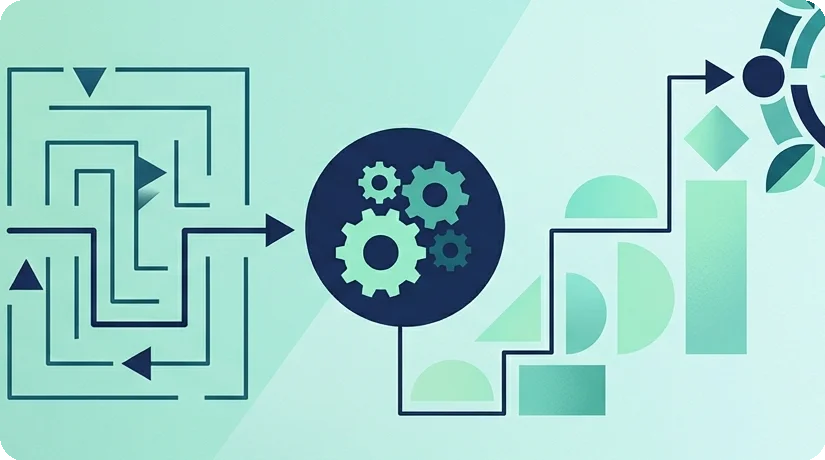
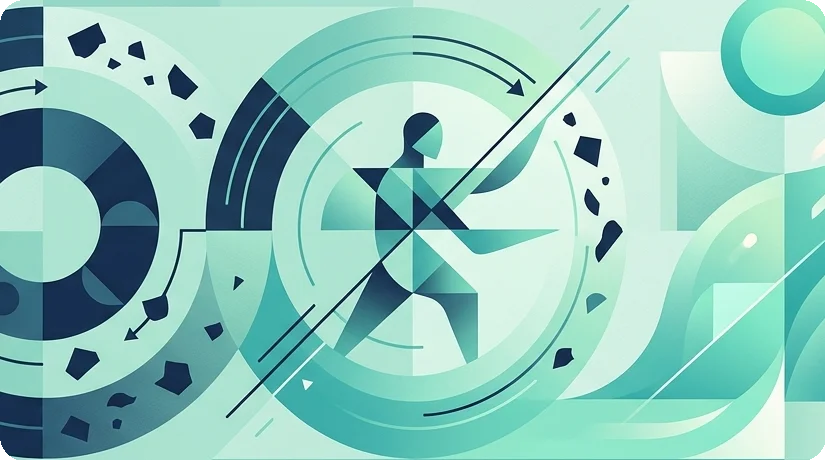
blog: add best-way-to-break-bad-eating-habits + micros: conditions/emotional-eating-and-weight-gain, diets/mindful-eating-practices, meal-plans/meal-planning-strategies

diff --git a/blog/best-way-to-break-bad-eating-habits.html b/blog/best-way-to-break-bad-eating-habits.html
@@ -8,9 +8,9 @@
   <meta charset="UTF-8">
   <meta name="viewport" content="width=device-width, initial-scale=1.0">
 
-  <title>Best Way to Break Bad Eating Habits &amp; Form New Ones — AI Weight Coach Blog</title>
-  <meta name="description" content="Discover the best way to break bad eating habits by identifying triggers, setting achievable goals, practicing mindful eating, and building new, healthier routines for lasting change.">
-  <meta name="keywords" content="break bad eating habits, healthy eating habits, stop emotional eating, food triggers, mindful eating, behavior change, nutrition strategies, weight loss habits">
+  <title>Best Way to Break Bad Eating Habits | AI Weight Coach — AI Weight Coach Blog</title>
+  <meta name="description" content="Learn the best strategies to break bad eating habits, from identifying triggers to building new healthy patterns. Get practical, evidence-based tips for lasting change.">
+  <meta name="keywords" content="bad eating habits, break bad habits, healthy eating habits, emotional eating, mindful eating, habit change, weight loss habits, food triggers">
   <meta name="author" content="AI Weight Coach">
   <meta name="robots" content="index, follow">
   <meta name="language" content="English">
@@ -19,21 +19,21 @@
   <!-- Open Graph -->
   <meta property="og:type" content="article">
   <meta property="og:url" content="https://aiweightcoach.app/blog/best-way-to-break-bad-eating-habits.html">
-  <meta property="og:title" content="Best Way to Break Bad Eating Habits &amp; Form New Ones — AI Weight Coach Blog">
-  <meta property="og:description" content="Discover the best way to break bad eating habits by identifying triggers, setting achievable goals, practicing mindful eating, and building new, healthier routines for lasting change.">
+  <meta property="og:title" content="Best Way to Break Bad Eating Habits | AI Weight Coach — AI Weight Coach Blog">
+  <meta property="og:description" content="Learn the best strategies to break bad eating habits, from identifying triggers to building new healthy patterns. Get practical, evidence-based tips for lasting change.">
   <meta property="og:image" content="https://aiweightcoach.app/og-image.png">
   <meta property="og:image:width" content="1200">
   <meta property="og:image:height" content="630">
   <meta property="og:site_name" content="AI Weight Coach">
   <meta property="og:locale" content="en_US">
-  <meta property="article:published_time" content="2026-10-29T18:00:15.262886+00:00">
-  <meta property="article:modified_time" content="2026-10-29T18:00:15.262886+00:00">
+  <meta property="article:published_time" content="2026-11-01T12:00:25.850245+00:00">
+  <meta property="article:modified_time" content="2026-11-01T12:00:25.850245+00:00">
   <meta property="article:author" content="AI Weight Coach">
 
   <!-- Twitter -->
   <meta name="twitter:card" content="summary_large_image">
-  <meta name="twitter:title" content="Best Way to Break Bad Eating Habits &amp; Form New Ones — AI Weight Coach Blog">
-  <meta name="twitter:description" content="Discover the best way to break bad eating habits by identifying triggers, setting achievable goals, practicing mindful eating, and building new, healthier routines for lasting change.">
+  <meta name="twitter:title" content="Best Way to Break Bad Eating Habits | AI Weight Coach — AI Weight Coach Blog">
+  <meta name="twitter:description" content="Learn the best strategies to break bad eating habits, from identifying triggers to building new healthy patterns. Get practical, evidence-based tips for lasting change.">
   <meta name="twitter:image" content="https://aiweightcoach.app/og-image.png">
   <meta name="twitter:site" content="@aiweightcoach">
   <meta name="twitter:creator" content="@aiweightcoach">
@@ -48,7 +48,7 @@
   <link rel="dns-prefetch" href="https://www.googletagmanager.com">
   <link href="https://fonts.googleapis.com/css2?family=Inter:wght@300;400;500;600;700;800;900&display=swap" rel="stylesheet">
   <link rel="manifest" href="https://aiweightcoach.app/manifest.json">
-  <script type="application/ld+json">{"@context": "https://schema.org", "@type": "BlogPosting", "headline": "Best Way to Break Bad Eating Habits", "description": "Discover the best way to break bad eating habits by identifying triggers, setting achievable goals, practicing mindful eating, and building new, healthier routines for lasting change.", "datePublished": "2026-10-29T18:00:15.262886+00:00", "dateModified": "2026-10-29T18:00:15.262886+00:00", "image": "https://aiweightcoach.app/blog/images/best-way-to-break-bad-eating-habits.webp", "author": {"@type": "Organization", "name": "AI Weight Coach"}, "publisher": {"@type": "Organization", "name": "AI Weight Coach", "logo": {"@type": "ImageObject", "url": "https://aiweightcoach.app/icon.png"}}, "mainEntityOfPage": {"@type": "WebPage", "@id": "https://aiweightcoach.app/blog/best-way-to-break-bad-eating-habits.html"}, "keywords": "break bad eating habits, healthy eating habits, stop emotional eating, food triggers, mindful eating, behavior change, nutrition strategies, weight loss habits"}</script>
+  <script type="application/ld+json">{"@context": "https://schema.org", "@type": "BlogPosting", "headline": "Best Way to Break Bad Eating Habits", "description": "Learn the best strategies to break bad eating habits, from identifying triggers to building new healthy patterns. Get practical, evidence-based tips for lasting change.", "datePublished": "2026-11-01T12:00:25.850245+00:00", "dateModified": "2026-11-01T12:00:25.850245+00:00", "image": "https://aiweightcoach.app/blog/images/best-way-to-break-bad-eating-habits.webp", "author": {"@type": "Organization", "name": "AI Weight Coach"}, "publisher": {"@type": "Organization", "name": "AI Weight Coach", "logo": {"@type": "ImageObject", "url": "https://aiweightcoach.app/icon.png"}}, "mainEntityOfPage": {"@type": "WebPage", "@id": "https://aiweightcoach.app/blog/best-way-to-break-bad-eating-habits.html"}, "keywords": "bad eating habits, break bad habits, healthy eating habits, emotional eating, mindful eating, habit change, weight loss habits, food triggers"}</script>
   <script type="application/ld+json">{"@context": "https://schema.org", "@type": "BreadcrumbList", "itemListElement": [{"@type": "ListItem", "position": 1, "name": "Home", "item": "https://aiweightcoach.app/"}, {"@type": "ListItem", "position": 2, "name": "Blog", "item": "https://aiweightcoach.app/blog/"}, {"@type": "ListItem", "position": 3, "name": "Best Way to Break Bad Eating Habits"}]}</script>
 
   <style>
@@ -290,90 +290,88 @@
     <span class="post-category">Behavior Psychology</span>
     <h1>Best Way to Break Bad Eating Habits</h1>
     <div class="post-meta">
-      <span>Oct 29, 2026</span>
-      <span>7 min read</span>
+      <span>Nov 01, 2026</span>
+      <span>5 min read</span>
     </div>
     <img class="post-hero" src="images/best-way-to-break-bad-eating-habits.webp" alt="Best Way to Break Bad Eating Habits">
     <div class="post-content">
-      <p>Breaking free from entrenched bad eating habits can feel like an uphill battle, but it's entirely achievable with the right strategies and a consistent approach. The best way to break bad eating habits involves a multi-faceted approach focusing on understanding your triggers, making incremental changes, building new routines, and fostering a supportive environment for long-term success.</p>
+      <p>Breaking bad eating habits is a journey that starts with self-awareness and systematic, sustainable changes. It involves understanding your triggers, gradually replacing unhelpful patterns with healthier alternatives, and building a supportive environment to foster long-term success rather than relying on restrictive diets.</p>
+
+    <h2>What Exactly Qualifies as a "Bad Eating Habit"?</h2>
+    <p>Often, when we talk about "bad eating habits," we're referring to patterns of consumption that don't serve our health or weight loss goals. These aren't just about "unhealthy foods" but also the behaviors surrounding eating. Common examples include:</p>
+    <ul>
+        <li><strong>Emotional Eating:</strong> Consuming food in response to feelings like stress, boredom, sadness, or anxiety, rather than physical hunger.</li>
+        <li><strong>Mindless Snacking:</strong> Eating without paying attention, often while watching TV, working, or scrolling, leading to overconsumption.</li>
+        <li><strong>Skipping Meals:</strong> This can lead to extreme hunger later, resulting in overeating or poor food choices.</li>
+        <li><strong>Relying on Convenience Foods:</strong> <a href="../meal-plans/meal-planning-strategies.html">Overcoming the habit of relying on convenience foods</a> often begins with implementing effective meal planning strategies to ensure healthier options are readily available. This means avoiding frequent consumption of highly processed, calorie-dense, nutrient-poor options due to lack of time or planning.</li>
+        <li><strong>Eating Too Quickly:</strong> Not allowing your body sufficient time to register fullness, often leading to overeating.</li>
+        <li><strong>Lack of Portion Control:</strong> Consistently eating larger-than-needed servings, even of healthy foods.</li>
+        <li><strong>Late-Night Eating:</strong> Consuming a significant portion of daily calories close to bedtime, which can impact sleep and digestion.</li>
+    </ul>
+    <p>Identifying your specific "bad habits" is the critical first step toward change.</p>
 
     <h2>Why Are Bad Eating Habits So Hard to Break?</h2>
-    <p>Eating habits, both good and bad, are often deeply ingrained behaviors tied to emotions, routines, and environmental cues. They aren't just about food; they're about comfort, stress relief, boredom, or social connection. Over time, these actions create neural pathways that make them automatic, making it challenging to consciously override them. Understanding this psychological aspect is the first step toward effective change. Beyond simple cravings, debunking common misconceptions like '<a href="../myths/the-myth-that-stress-doesnt-affect-weight-loss.html">The Myth That Stress Doesn't Affect Weight Loss</a>' can highlight how deeply emotions intertwine with our eating patterns.</p>
-
+    <p>If breaking bad habits were easy, everyone would do it. The reality is, these habits are often deeply ingrained, serving various psychological and physiological functions:</p>
     <ul>
-        <li><strong>Emotional Triggers:</strong> Many people eat in response to stress, sadness, boredom, or even happiness. Understanding the root causes of these behaviors, often linked to stress or boredom, is a critical step in breaking bad eating habits, especially concerning issues like <a href="../conditions/emotional-eating-and-weight-gain.html">emotional eating and weight gain</a>.</li>
-        <li><strong>Environmental Cues:</strong> Specific places, times, or people can trigger cravings or mindless eating.</li>
-        <li><strong>Lack of Awareness:</strong> Often, we're not even conscious of <em>why</em> we reach for certain foods.</li>
-        <li><strong>Instant Gratification:</strong> Unhealthy foods often provide a quick dopamine hit, reinforcing the habit.</li>
+        <li><strong>Biological Wiring:</strong> Our brains are wired to seek pleasure and conserve energy. High-fat, high-sugar foods trigger dopamine release, creating a powerful reward system.</li>
+        <li><strong>Emotional Comfort:</strong> Food can be a coping mechanism for stress, loneliness, or boredom. It provides a temporary sense of comfort or distraction.</li>
+        <li><strong>Environmental Cues:</strong> Our surroundings heavily influence our eating. Seeing tempting foods, advertisements, or being in specific social settings can trigger habitual responses.</li>
+        <li><strong>Routine and Convenience:</strong> Habits are often efficient. Reaching for a sugary drink or a bag of chips might be a well-established, low-effort routine when you're tired or busy.</li>
+        <li><strong>Lack of Awareness:</strong> Many eating habits are automatic, operating below our conscious radar. We might not even realize we're doing them until after the fact.</li>
+        <li><strong>Societal Norms:</strong> Social gatherings, cultural traditions, and peer pressure can all make it difficult to deviate from established eating patterns.</li>
+    </ul>
+    <p>Understanding these underlying reasons provides empathy for ourselves and a roadmap for tackling the roots of the habits, not just the symptoms.</p>
+
+    <h2>What Are Practical Strategies to Overcome Poor Eating Patterns?</h2>
+    <p>Breaking ingrained habits requires a multi-pronged, patient approach. Here are evidence-based strategies:</p>
+
+    <h3>1. Cultivate Self-Awareness and Identify Triggers</h3>
+    <ul>
+        <li><strong>Food Journaling:</strong> Track not just what you eat, but also when, where, with whom, how you feel, and your hunger levels. This helps reveal patterns and triggers. Tools like AI Weight Coach can simplify this process, offering insights into your eating habits.</li>
+        <li><strong>Mindful Eating:</strong> To combat mindless snacking and eating too quickly, <a href="../diets/mindful-eating-practices.html">adopting mindful eating practices</a> can help you reconnect with your body's hunger and fullness cues. Pay attention to the act of eating. Notice the flavors, textures, and smells. Eat slowly, chew thoroughly, and put your fork down between bites.</li>
     </ul>
 
-    <h2>How Can I Identify My Eating Triggers?</h2>
-    <p>Self-awareness is paramount. Before you can change a habit, you need to understand what prompts it. Keeping a food journal, beyond just tracking what you eat, can be incredibly insightful.</p>
-
-    <h3>What to Record in Your Food Journal:</h3>
-    <ol>
-        <li><strong>What you ate:</strong> Be specific.</li>
-        <li><strong>When you ate:</strong> Note the time.</li>
-        <li><strong>Where you ate:</strong> At home, work, in the car?</li>
-        <li><strong>Who you were with:</strong> Alone, with family, friends?</li>
-        <li><strong>How you felt:</strong> Stressed, happy, sad, bored, tired, anxious?</li>
-        <li><strong>Hunger level:</strong> On a scale of 1-10 before and after eating.</li>
-    </ol>
-    <p>After a week or two, review your entries. Do you notice patterns? For example, do you always reach for snacks when you get home from work, regardless of hunger? Or do you overeat when feeling stressed? Identifying these patterns is crucial for developing targeted strategies.</p>
-
-    <h2>What Are Practical Strategies for Breaking Bad Habits?</h2>
-    <p>Once you understand your triggers, you can begin to implement practical strategies. Remember, small, consistent changes are more sustainable than drastic overhauls.</p>
-
-    <h3>Start with Small, Achievable Goals</h3>
+    <h3>2. Set Realistic, Incremental Goals</h3>
     <ul>
-        <li><strong>One-step-at-a-time:</strong> Instead of cutting out all sugar, try reducing sugary drinks by half.</li>
-        <li><strong>Focus on addition, not just subtraction:</strong> Instead of dwelling on what you <em>can't</em> eat, focus on adding more fruits, vegetables, and lean proteins to your diet.</li>
-        <li><strong>Swap, don't just stop:</strong> Replace unhealthy snacks with healthier alternatives like fruit, nuts, or Greek yogurt.</li>
+        <li><strong>Start Small:</strong> Don't try to overhaul everything at once. Pick one habit to focus on first (e.g., "I will swap my afternoon soda for water," or "I will eat one serving of vegetables with dinner").</li>
+        <li><strong>SMART Goals:</strong> Make your goals Specific, Measurable, Achievable, Relevant, and Time-bound. Instead of "eat healthier," aim for "I will pack a healthy lunch three times this week."</li>
     </ul>
 
-    <h3>Reshape Your Environment</h3>
-    <p>Your surroundings heavily influence your choices. Make healthy eating the path of least resistance.</p>
+    <h3>3. Strategically Replace, Don't Just Restrict</h3>
     <ul>
-        <li><strong>Declutter your pantry:</strong> Remove tempting, ultra-processed foods that trigger unhealthy eating.</li>
-        <li><strong>Stock up on healthy options:</strong> Keep fruits, chopped vegetables, and healthy snacks readily available.</li>
-        <li><strong>Portion control:</strong> Use smaller plates, bowls, and serving utensils. Pre-portion snacks to avoid overeating directly from the package.</li>
-        <li><strong>Visibility matters:</strong> Keep healthy foods visible and unhealthy foods out of sight (or out of the house entirely).</li>
+        <li><strong>Find Healthy Swaps:</strong> Instead of eliminating an entire food group or craving, find a healthier alternative. Craving chips? Try air-popped popcorn or vegetable sticks with hummus. Sweet tooth? Reach for fruit or a small piece of dark chocolate.</li>
+        <li><strong>Add Good Habits:</strong> Focus on incorporating positive habits rather than just removing negative ones. Add more protein, fiber, or vegetables to your meals.</li>
     </ul>
 
-    <h3>Practice Mindful Eating</h3>
-    <p>The practice of <a href="../diets/mindful-eating-practices.html">mindful eating practices</a>, which encourage you to pay attention to your body's hunger cues and savor your food, can greatly enhance self-awareness around your eating. Mindful eating involves paying full attention to your food and the eating experience. It helps you recognize true hunger and fullness cues.</p>
+    <h3>4. Manage Your Environment</h3>
     <ul>
-        <li><strong>Eat slowly:</strong> Put your fork down between bites.</li>
-        <li><strong>Savor each bite:</strong> Notice the textures, flavors, and smells.</li>
-        <li><strong>Eliminate distractions:</strong> Turn off screens, put away your phone.</li>
-        <li><strong>Check in with hunger/fullness:</strong> Ask yourself if you're truly hungry before eating, and stop when you're comfortably full, not stuffed.</li>
+        <li><strong>Remove Temptations:</strong> Out of sight, out of mind. Clear your pantry and fridge of highly processed, trigger foods.</li>
+        <li><strong>Stock Healthy Options:</strong> Fill your kitchen with fruits, vegetables, lean proteins, and whole grains.</li>
+        <li><strong>Pre-Portion Snacks:</strong> If you struggle with portion control, divide snacks into individual servings.</li>
+        <li><strong>Plan Ahead:</strong> Meal prepping or having a general meal plan for the week reduces reliance on last-minute, less healthy choices. This is where the meal planning features of an app like AI Weight Coach can be invaluable.</li>
     </ul>
 
-    <h2>How Can I Develop New, Healthier Routines?</h2>
-    <p>Breaking old habits is often about replacing them with new, healthier ones. Consistency is key to forming these new routines.</p>
-
+    <h3>5. Address Underlying Emotional Triggers</h3>
     <ul>
-        <li><strong>Structured Meal Times:</strong> Try to eat at regular intervals to stabilize blood sugar and prevent extreme hunger, which often leads to poor choices.</li>
-        <li><strong>Plan Ahead:</strong> Implementing <a href="../meal-plans/meal-planning-strategies.html">effective meal planning strategies</a> can help you establish healthier routines and reduce the likelihood of impulsive, unhealthy food choices. Meal planning and prepping ensure you have healthy options ready, reducing the likelihood of impulse eating. AI Weight Coach can be an invaluable tool here, offering personalized meal plans and tracking capabilities to help you stick to your goals.</li>
-        <li><strong>Stay Hydrated:</strong> Sometimes thirst is mistaken for hunger. Drink water throughout the day, especially before meals.</li>
-        <li><strong>Find Alternative Coping Mechanisms:</strong> If stress or boredom triggers unhealthy eating, find non-food ways to cope. Go for a walk, read a book, call a friend, meditate, or engage in a hobby.</li>
+        <li><strong>Find Non-Food Coping Mechanisms:</strong> When you feel emotional hunger, pause and identify the emotion. Then, choose a non-food activity: take a walk, call a friend, read a book, meditate, or listen to music.</li>
+        <li><strong>Stress Reduction:</strong> Chronic stress often fuels <a href="../conditions/emotional-eating-and-weight-gain.html">emotional eating and weight gain</a>. Incorporate stress-reducing practices like yoga, mindfulness, or hobbies.</li>
     </ul>
 
-    <h2>How Can AI Weight Coach Support My Journey?</h2>
-    <p>Changing deeply ingrained habits can be challenging, and having support can make all the difference. AI Weight Coach provides a structured framework and personalized guidance to help you navigate this process effectively.</p>
-
+    <h2>How Can You Build New, Healthier Eating Habits?</h2>
+    <p>Breaking old habits is only half the battle; building new, sustainable ones is crucial for long-term success. This involves consistency, patience, and positive reinforcement.</p>
     <ul>
-        <li><strong>Personalized Meal Plans:</strong> Get tailored meal suggestions that align with your dietary preferences and goals, making healthy eating easier to adopt.</li>
-        <li><strong>Habit Tracking:</strong> Monitor your eating patterns, identify triggers, and track progress on new habits, providing data-driven insights into your behavior.</li>
-        <li><strong>Goal Setting & Accountability:</strong> Set realistic goals and receive support to stay accountable, celebrating small wins along the way.</li>
-        <li><strong>Educational Resources:</strong> Access expert-backed content on nutrition and behavioral psychology to deepen your understanding of healthy eating.</li>
+        <li><strong>Consistency is Key:</strong> New habits are formed through repetition. Stick with your chosen healthy habit even on days you don't feel like it. It gets easier over time.</li>
+        <li><strong>Reward Progress (Non-Food Rewards):</strong> Acknowledge your successes, no matter how small. Reward yourself with a new book, a massage, or an outing, not food.</li>
+        <li><strong>Enlist Support:</strong> Share your goals with friends, family, or a support group. Accountability can be a powerful motivator.</li>
+        <li><strong>Learn from Setbacks:</strong> Don't view a slip-up as a failure. It's an opportunity to learn what went wrong and adjust your strategy. Get back on track immediately, without self-blame.</li>
+        <li><strong>Hydration:</strong> Sometimes thirst is mistaken for hunger. Drink plenty of water throughout the day.</li>
+        <li><strong>Prioritize Sleep:</strong> Lack of sleep can disrupt hunger hormones (ghrelin and leptin), increasing cravings and appetite. Aim for 7-9 hours of quality sleep per night.</li>
     </ul>
 
-    <h2>When Should I Seek Professional Help?</h2>
-    <p>While many bad eating habits can be broken with self-directed strategies, some are more deeply rooted and may benefit from professional intervention. If you find yourself struggling with disordered eating patterns, binge eating, or if your habits are significantly impacting your health and well-being, consulting a registered dietitian, therapist, or doctor is highly recommended. They can provide personalized guidance and support tailored to your specific needs.</p>
+    <h2>When Should You Seek Professional Help for Eating Habits?</h2>
+    <p>While many people can successfully modify their eating habits with self-help strategies and coaching apps, some situations warrant professional guidance. If you suspect you have an eating disorder, experience severe distress around food, or find your eating habits significantly impacting your quality of life, consulting a healthcare professional like a registered dietitian, therapist, or doctor is highly recommended. They can provide personalized advice and support tailored to your unique needs.</p>
 
-    <h3>Important Disclaimer:</h3>
-    <p>The information provided in this blog post is for general educational purposes only and is not intended as medical advice. Always consult with a qualified healthcare professional before making any significant changes to your diet, exercise routine, or health regimen, especially if you have underlying health conditions.</p>
+    <p><strong>Disclaimer:</strong> This blog post provides general information and is not a substitute for professional medical advice. Always consult with a qualified healthcare provider or registered dietitian before making significant changes to your diet or health regimen, especially if you have underlying health conditions.</p>
     </div>
     
     <div class="linked-micros">
@@ -382,7 +380,6 @@
       <a href="../conditions/emotional-eating-and-weight-gain.html" class="micro-pill">Emotional Eating and Weight Gain</a>
       <a href="../diets/mindful-eating-practices.html" class="micro-pill">Mindful Eating Practices</a>
       <a href="../meal-plans/meal-planning-strategies.html" class="micro-pill">Meal Planning Strategies</a>
-      <a href="../myths/the-myth-that-stress-doesnt-affect-weight-loss.html" class="micro-pill">The Myth That Stress Doesn&#x27;t Affect Weight Loss</a>
       </div>
     </div>
   </article>

diff --git a/blog/index.html b/blog/index.html
@@ -292,6 +292,15 @@
   <div class="container">
     <div class="blog-grid" id="blog-grid">
       
+      <a href="best-way-to-break-bad-eating-habits.html" class="blog-card" data-category="behavior_psychology" style="text-decoration:none;color:inherit;">
+        <span class="category-tag">Behavior Psychology</span>
+        <h3>Best Way to Break Bad Eating Habits</h3>
+        <p class="excerpt">Breaking bad eating habits involves self-awareness, identifying triggers, setting realistic goals, and gradually replacing unhelpful patterns with healthier alternatives for lasting success.</p>
+        <div class="meta">
+          <span>Nov 01, 2026</span>
+          <span>5 min read</span>
+        </div>
+      </a>
       <a href="how-to-lose-face-fat-in-7-days.html" class="blog-card" data-category="practical_tips" style="text-decoration:none;color:inherit;">
         <span class="category-tag">Practical Tips</span>
         <h3>How to Lose Face Fat in 7 Days: Reality vs. Expectation</h3>
